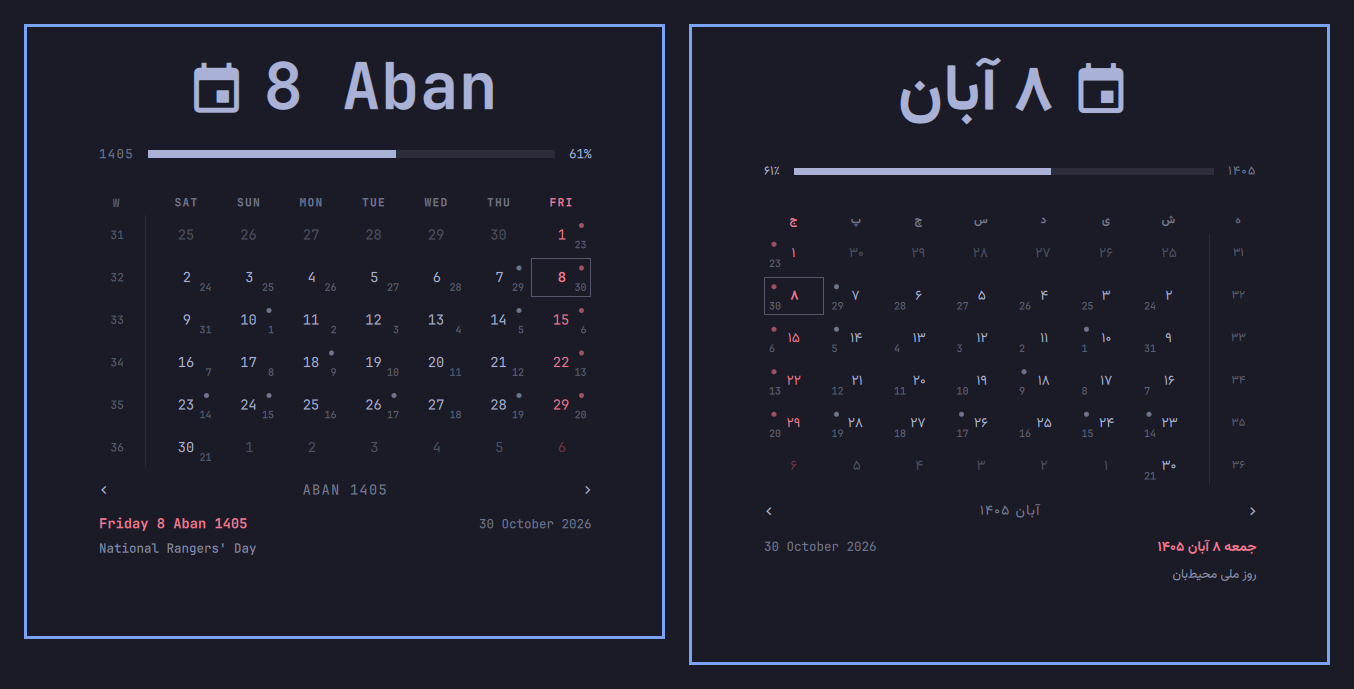
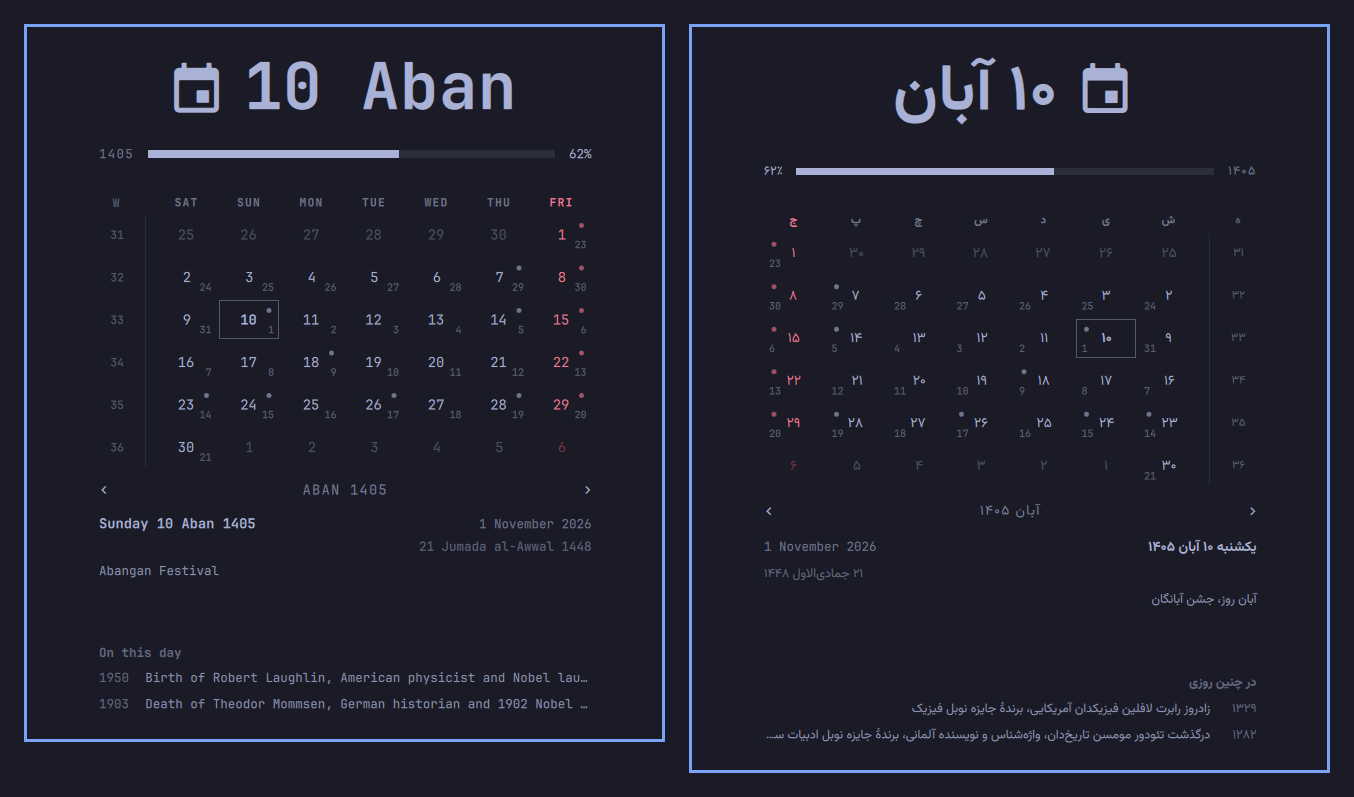
Omarchy: mirror 'On this day' in Persian; new screenshots

diff --git a/omarchy/Panel.qml b/omarchy/Panel.qml
@@ -963,6 +963,8 @@ Panel {
               Text {
                 visible: root.historyLines > 0
                 textFormat: Text.PlainText
+                width: parent.width
+                horizontalAlignment: Text.AlignLeft
                 topPadding: Style.space(4)
                 text: root.label("onThisDay")
                 color: Qt.darker(root.contentForeground, 1.7)
@@ -986,6 +988,8 @@ Panel {
                     anchors.left: parent.left
                     anchors.verticalCenter: parent.verticalCenter
                     width: Style.space(40)
+                    // Set, not left to the digits, so it mirrors with the layout.
+                    horizontalAlignment: Text.AlignLeft
                     text: parent.entry && parent.entry.year !== null ? root.digits(parent.entry.year) : (parent.entry ? "·" : "")
                     color: Qt.darker(root.contentForeground, 1.7)
                     font.family: root.textFontFamily

diff --git a/CHANGELOG.md b/CHANGELOG.md
@@ -1,5 +1,11 @@
 # Changelog
 
+## Unreleased
+
+- Omarchy, in Persian: the "On this day" header and years sit on the right,
+  where the text starts, instead of the year running into its title.
+- New screenshots, with the Hijri date and "On this day".
+
 ## 2.1.0 (2026-10-31)
 
 Occasions no longer need a file per year.
